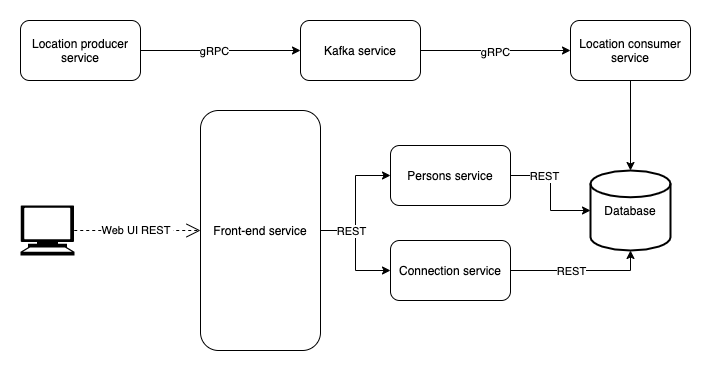
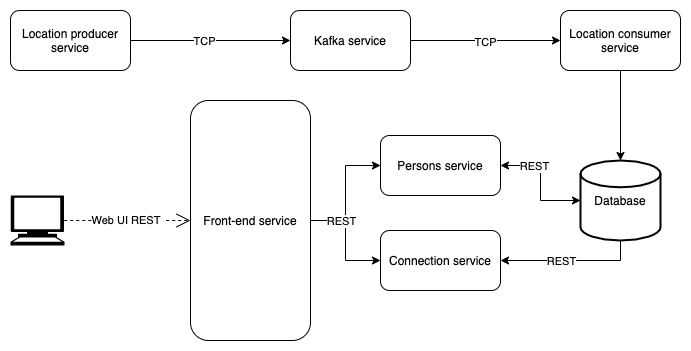
Fixed arch diagram and inf loop in consumer

diff --git a/modules/loc-consumer/app/udaconnect/consumer.py b/modules/loc-consumer/app/udaconnect/consumer.py
@@ -47,4 +47,5 @@ def consume():
 
 if __name__ == "__main__":
     logging.basicConfig()
-    consume()
+    while True:
+        consume()
